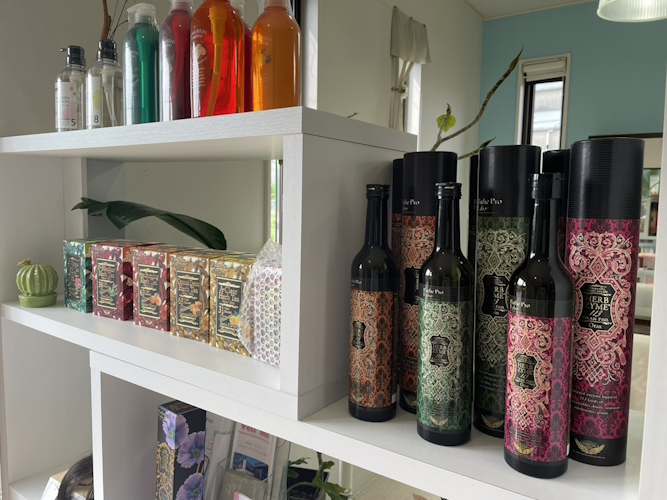
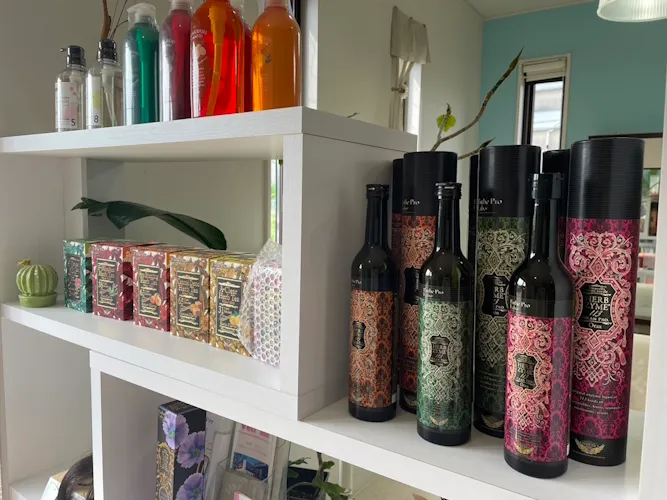
画像サイズの圧縮

Changed region(s): [[0.2999, 0.06, 0.3898, 0.24], [0.1799, 0.06, 0.2399, 0.24]]

diff --git a/src/components/support/SupportCredit.jsx b/src/components/support/SupportCredit.jsx
@@ -10,13 +10,13 @@ export default function SupportCredit() {
       <div className={container}>
         <figure>
           <div className={imageContainer}>
-            <img src="/assets/home/hero.jpg" alt="flower" width="600" height="400" />
+            <img src="/assets/home/hero.webp" alt="flower" width="600" height="400" />
           </div>
           <figcaption>著作者：<a href="https://jp.freepik.com/free-vector/watercolor-floral-background_7938347.htm#&position=0&from_view=collections" target='_blink'>pikisuperstar</a>／出典：Freepik</figcaption>
         </figure>
         <figure>
         <div className={imageContainer}>
-          <img src="/assets/service/nail-hero.jpg" alt="nail" width="600" height="400" />
+          <img src="/assets/service/nail-hero.webp" alt="nail" width="600" height="400" />
         </div>
         <figcaption>著作者：<a href="https://www.freepik.com/free-photo/healthy-beautiful-manicure-manicurist_11296770.htm#query=nail&position=2&from_view=search&track=sph">Freepik</a></figcaption>
       </figure>

diff --git a/src/components/about/AboutExterior.jsx b/src/components/about/AboutExterior.jsx
@@ -6,14 +6,14 @@ export default function AboutInterior() {
     images: [
       {
         id: 1,
-        path: 'image1.jpg',
+        path: 'image1.webp',
         alt: 'Vell moの店舗',
         width: '375',
         height: '500'
       },
       {
         id: 2,
-        path: 'image2.jpg',
+        path: 'image2.webp',
         alt: 'Vell moの立札',
         width: '661',
         height: '500'
@@ -27,7 +27,7 @@ export default function AboutInterior() {
       },
       {
         id: 4,
-        path: 'image4.jpg',
+        path: 'image4.webp',
         alt: 'ネイル室へと続く脇道',
         width: '375',
         height: '500'

diff --git a/src/components/service/ServiceNail.jsx b/src/components/service/ServiceNail.jsx
@@ -17,15 +17,15 @@ export default function ServiceNail() {
     menuList: nailMenu,
     image: {
       commonPath: '/assets/service/',
-      heroImage: 'nail-hero.jpg',
+      heroImage: 'nail-hero.webp',
       heroImageAlt: 'ネイル',
       subImages: [
         {
-          path: 'nail1.jpg',
+          path: 'nail1.webp',
           alt: '付け爪の種類'
         },
         {
-          path: 'nail2.jpg',
+          path: 'nail2.webp',
           alt: 'ネイル室'
         },
         {

diff --git a/src/css/HomeHero.module.css b/src/css/HomeHero.module.css
@@ -1,7 +1,7 @@
 .hero {
   width: 100%;
   height: 80vh;
-  background-image: url("/assets/home/hero.jpg");
+  background-image: url("/assets/home/hero.webp");
   background-repeat: no-repeat;
   background-size: cover;
   background-position: center;

diff --git a/src/components/about/AboutInterior.jsx b/src/components/about/AboutInterior.jsx
@@ -13,7 +13,7 @@ export default function AboutInterior() {
       },
       {
         id: 2,
-        path: 'image2.jpg',
+        path: 'image2.webp',
         alt: '美容室の椅子',
         width: '667',
         height: '500'

diff --git a/src/components/service/Service.jsx b/src/components/service/Service.jsx
@@ -1,5 +1,4 @@
 import ServiceNail from './ServiceNail';
-import ServiceCapsule from './ServiceCupsule';
 import styles from '../../css/Service.module.css';
 
 export default function Service() {
